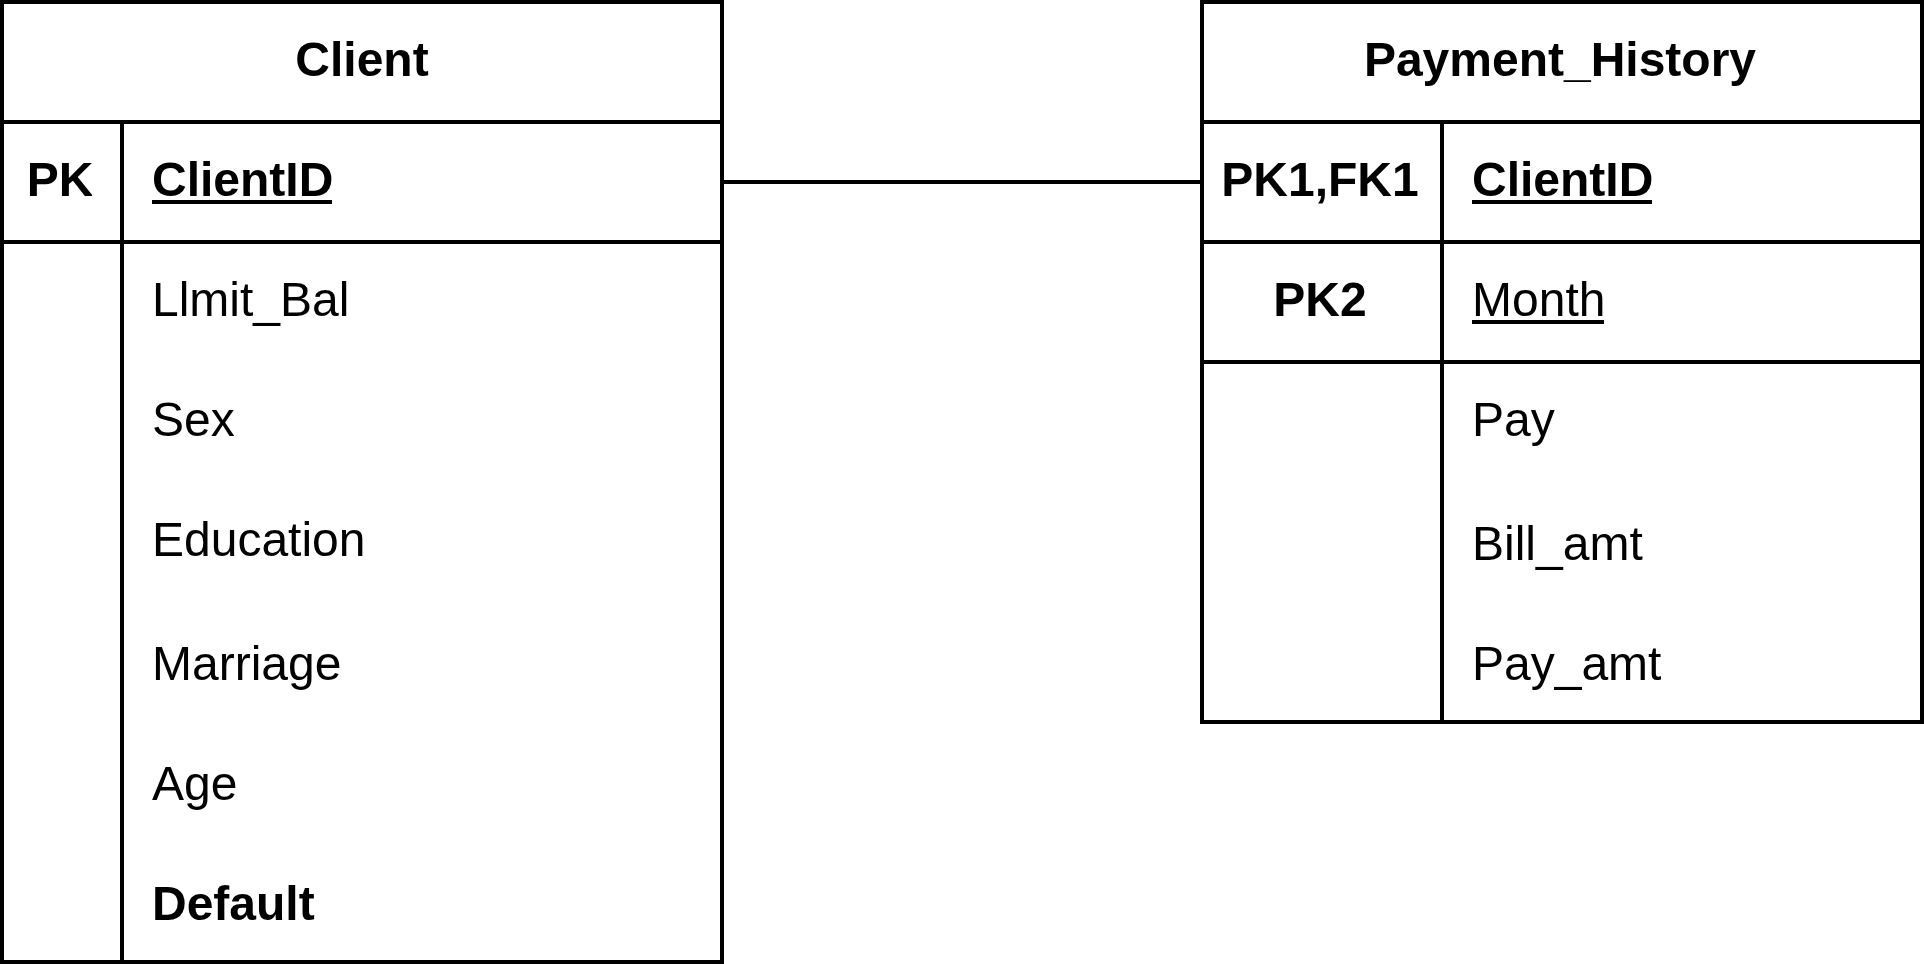
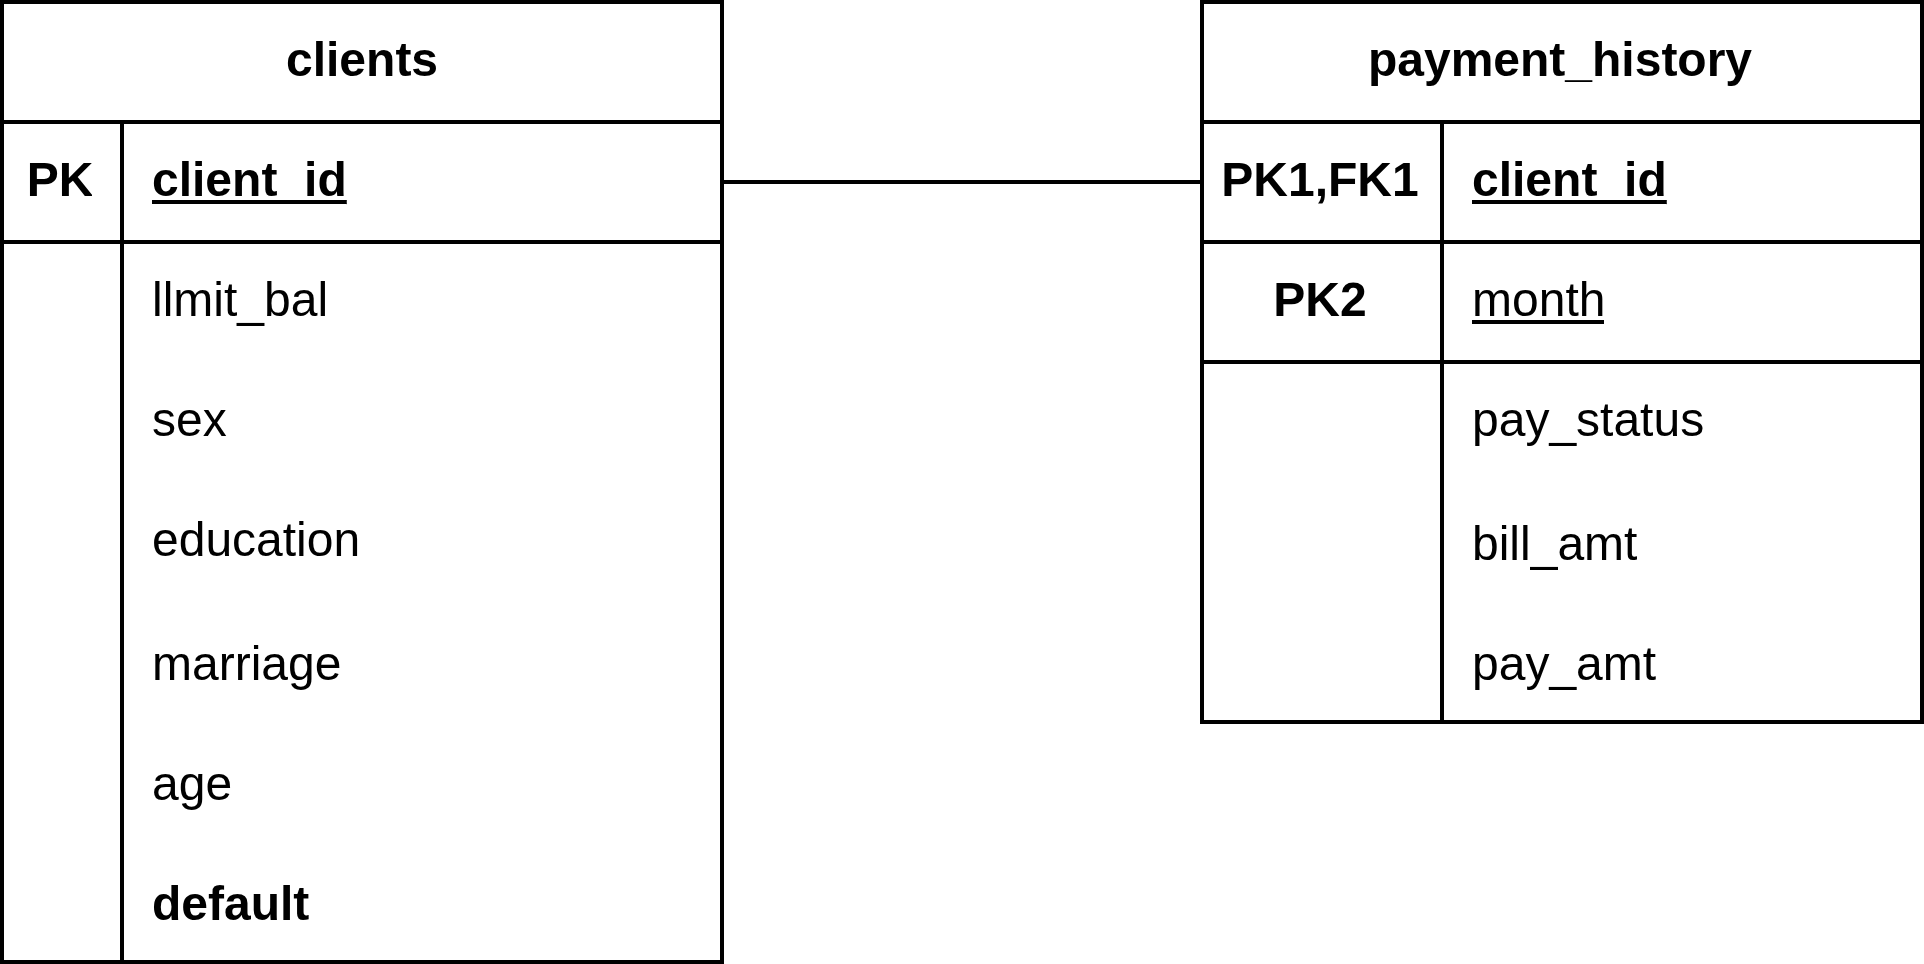
feat: finish databse downloader

diff --git a/data/dataset_downloader.py b/data/dataset_downloader.py
@@ -5,9 +5,89 @@ from pathlib import Path
 
 __ROOT__ = Path(__file__).parent.parent
 DATASET_PATH = __ROOT__ / "data"
+CLIENT_COLUMNS = ["client_id", "limit_bal", "sex", "education", "marriage", "age", "default"]
+HISTORY_COLUMNS = ["client_id", "month", "pay_status", "bill_amt", "pay_amt"]
 
-kaggle.api.authenticate()
-kaggle.api.dataset_download_files('uciml/default-of-credit-card-clients-dataset', path=DATASET_PATH, unzip=True)
+def wide_to_long(df: pd.DataFrame, column_prefix: str) -> pd.DataFrame:
+    # Находим все колонки, соответствующие префиксу (например, PAY_1, PAY_2...)
+    value_vars = [
+        col for col in df.columns
+        if col.startswith(column_prefix) and col.replace(column_prefix, "").isdigit()
+    ]
 
-df = pd.read_csv(DATASET_PATH / "UCI_Credit_Card.csv")
-print(df.head())
+    # Преобразуем из широкого формата в длинный
+    df_long = df.melt(id_vars=["ID"], value_vars=value_vars, var_name="month", value_name=column_prefix)
+    # Превращаем название колонки (например, 'PAY_1') в номер месяца (1)
+    df_long["month"] = df_long["month"].str.replace(column_prefix, "").astype(int)
+    return df_long
+
+def main():
+# 1. Скачивание датасета с Kaggle
+    kaggle.api.authenticate()
+    kaggle.api.dataset_download_files('uciml/default-of-credit-card-clients-dataset', path=DATASET_PATH, unzip=True)
+
+# 2. Обработка данных
+    df = pd.read_csv(DATASET_PATH / "UCI_Credit_Card.csv")
+    df = df.rename(columns={"PAY_0": "PAY_1"})
+
+# Разделяем признаки клиента и историю платежей
+    client_features = ["LIMIT_BAL", "SEX", "EDUCATION", "MARRIAGE", "AGE", "default.payment.next.month"]
+    client_df = df[["ID"] + client_features].copy()
+    history_df = df.drop(columns=client_features)
+
+# Переименовываем колонки для таблицы Client
+    client_df.columns = CLIENT_COLUMNS
+
+# Преобразуем историю платежей, балансов и оплат из широкого формата в длинный
+    pay_df = wide_to_long(history_df, "PAY_")
+    bill_df = wide_to_long(history_df, "BILL_AMT")
+    pay_amt_df = wide_to_long(history_df, "PAY_AMT")
+
+# Объединяем историю платежей в единую таблицу
+    final_history_df = pay_df.merge(bill_df, on=["ID", "month"]).merge(pay_amt_df, on=["ID", "month"])
+    final_history_df = final_history_df.rename(columns={
+        "ID": "client_id",
+        "PAY_": "pay_status",
+        "BILL_AMT": "bill_amt",
+        "PAY_AMT": "pay_amt"
+    })
+
+# 3. Сохранение в базу данных SQLite
+    with sqlite3.connect(DATASET_PATH / "database.db") as conn:
+        cursor = conn.cursor()
+
+        cursor.execute("PRAGMA foreign_keys = ON;")
+        cursor.execute("DROP TABLE IF EXISTS payment_history;")
+        cursor.execute("DROP TABLE IF EXISTS clients;")
+
+        cursor.execute("""CREATE TABLE clients (
+            client_id INTEGER PRIMARY KEY,
+            limit_bal REAL,
+            sex INTEGER,
+            education INTEGER,
+            marriage INTEGER,
+            age INTEGER,
+            'default' INTEGER
+            );""")
+
+        cursor.execute("""CREATE TABLE payment_history (
+            client_id INTEGER,
+            month INTEGER,
+            pay_status REAL,
+            bill_amt REAL,
+            pay_amt REAL,
+            PRIMARY KEY (client_id, month),
+
+            FOREIGN KEY (client_id) REFERENCES clients ON DELETE CASCADE
+            );""")
+
+        conn.commit()
+
+        client_df.to_sql("clients", conn, if_exists="append", index=False)
+        final_history_df.to_sql("payment_history", conn, if_exists="append", index=False)
+
+# 4. Удаление временного CSV-файла
+    (DATASET_PATH / "UCI_Credit_Card.csv").unlink(missing_ok=True)
+
+if __name__ == "__main__":
+    main()